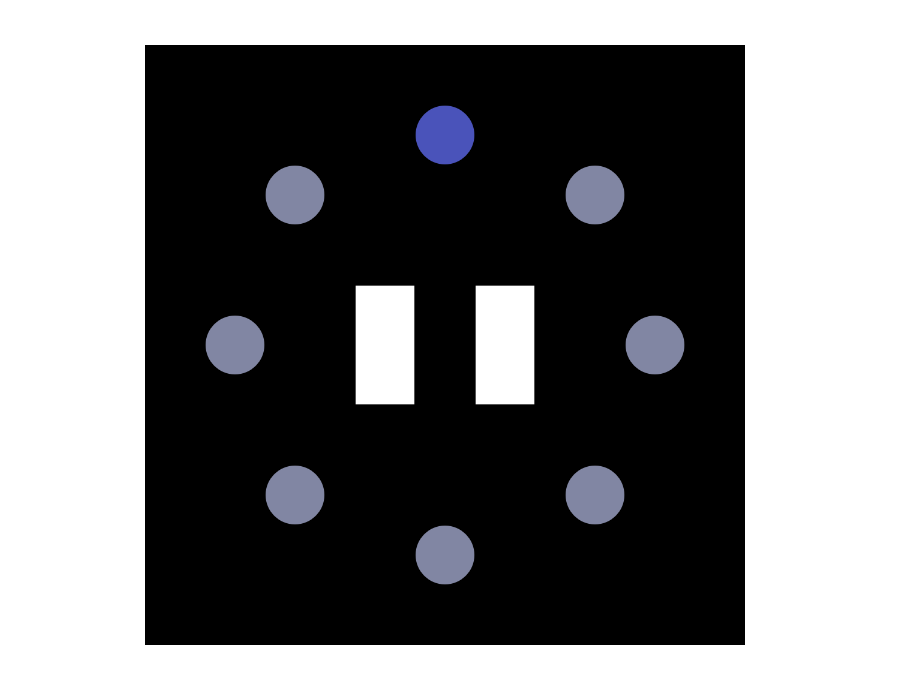
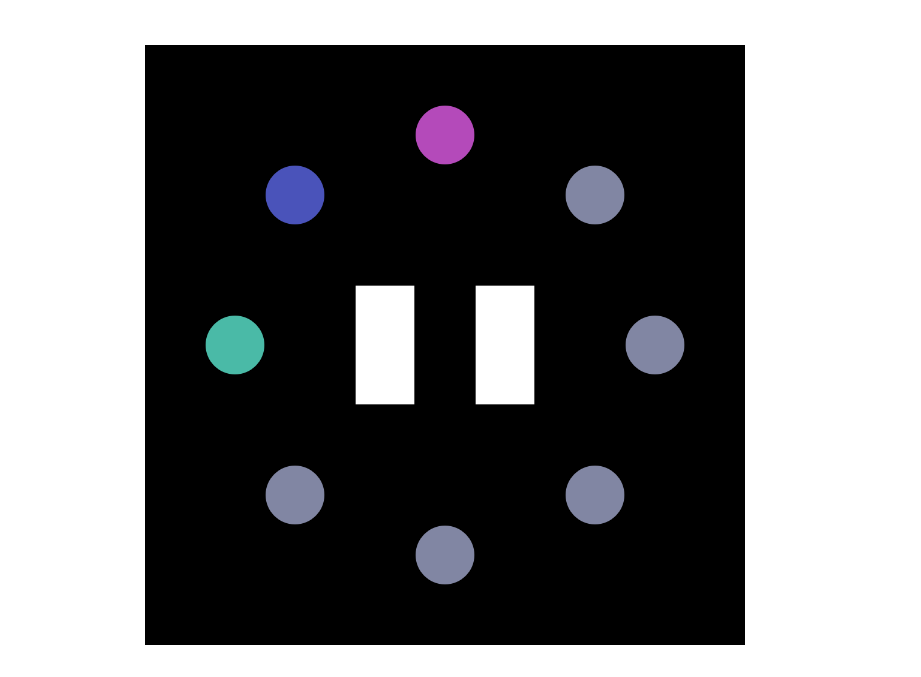
updated prototype 3 image and journal entry

Changed region(s): [[0.2736, 0.2482, 0.3648, 0.3412], [0.2128, 0.4653, 0.304, 0.5583], [0.4256, 0.1551, 0.5168, 0.2482]]

diff --git a/journal.md b/journal.md
@@ -1,6 +1,34 @@
 # Reflective Journal
 ---
-## (NEW) 19 October 2026
+## (New) 30 October 2026
+
+I have read the feedback from the other assignments, and for this assignment I tried to keep that in mind while working on it.
+- There should be a a good amount of commit messages
+- The prototypes are a bit more diverse and creative (in my opinion at least)
+
+For the first prototype, I wanted to make a little "board game" where the movement is intended to be on tiles and similarly to pac-man you run around eating a coin.
+The main challenges is ensuring that the player and coin don't spawn out of bounds and are centered inside the tiles. 
+So by using helper functions, I calculate the potential position of the player and return a boolean indicating if that new position is valid or not. This is also reused for the next coin position, as I want it to spawn on a tile that is adjacent to the player.
+
+I then added in a text with the amount of coins to gamify it a bit more
+![Eat Coin](./Assignment5/Prototype1/assets/images/image.png)
+
+For the second prototype, It is a tree with falling leaves.
+I thought the idea of making leaves fall slowly and sway left and right would be interesting to make.
+I used functions in a way to not manually create multiple objects and incorporated the arrays from the lecture to be able to individually give each leaf its own movement. 
+The shaking of the leaves was originally an accident, since i generally use the random function to randomly determine if an object should have a positive or negative movement, but forget that it returns a float value instead of an int. So this time i gave it a large range of values and it ended up giving me this erratic motion that is pretty good for falling leaves.
+Using the modulo opperator, I can also easily cycle through the leaves again, which is kind of like the cycle of a tree.
+
+![Fall](./Assignment5/Prototype2/assets/images/image.png)
+
+For the third prototype, I wanted to use functions to rotate the positions of the circles when it is on play mode.
+However, due to time constraints, I will instead give the illusion that it is spinning around by having colored circles circle around in a circle.
+It isn't too complex, but i think it looks neat.
+
+![Pause/Play](./Assignment5/Prototype3/assets/images/image.png)
+---
+
+## 19 October 2026
 
 Events are fun things to look into. I usually stuggle with this topic, but with the in-class challenge and p5js's version of them make it a lot more understandable.
 
